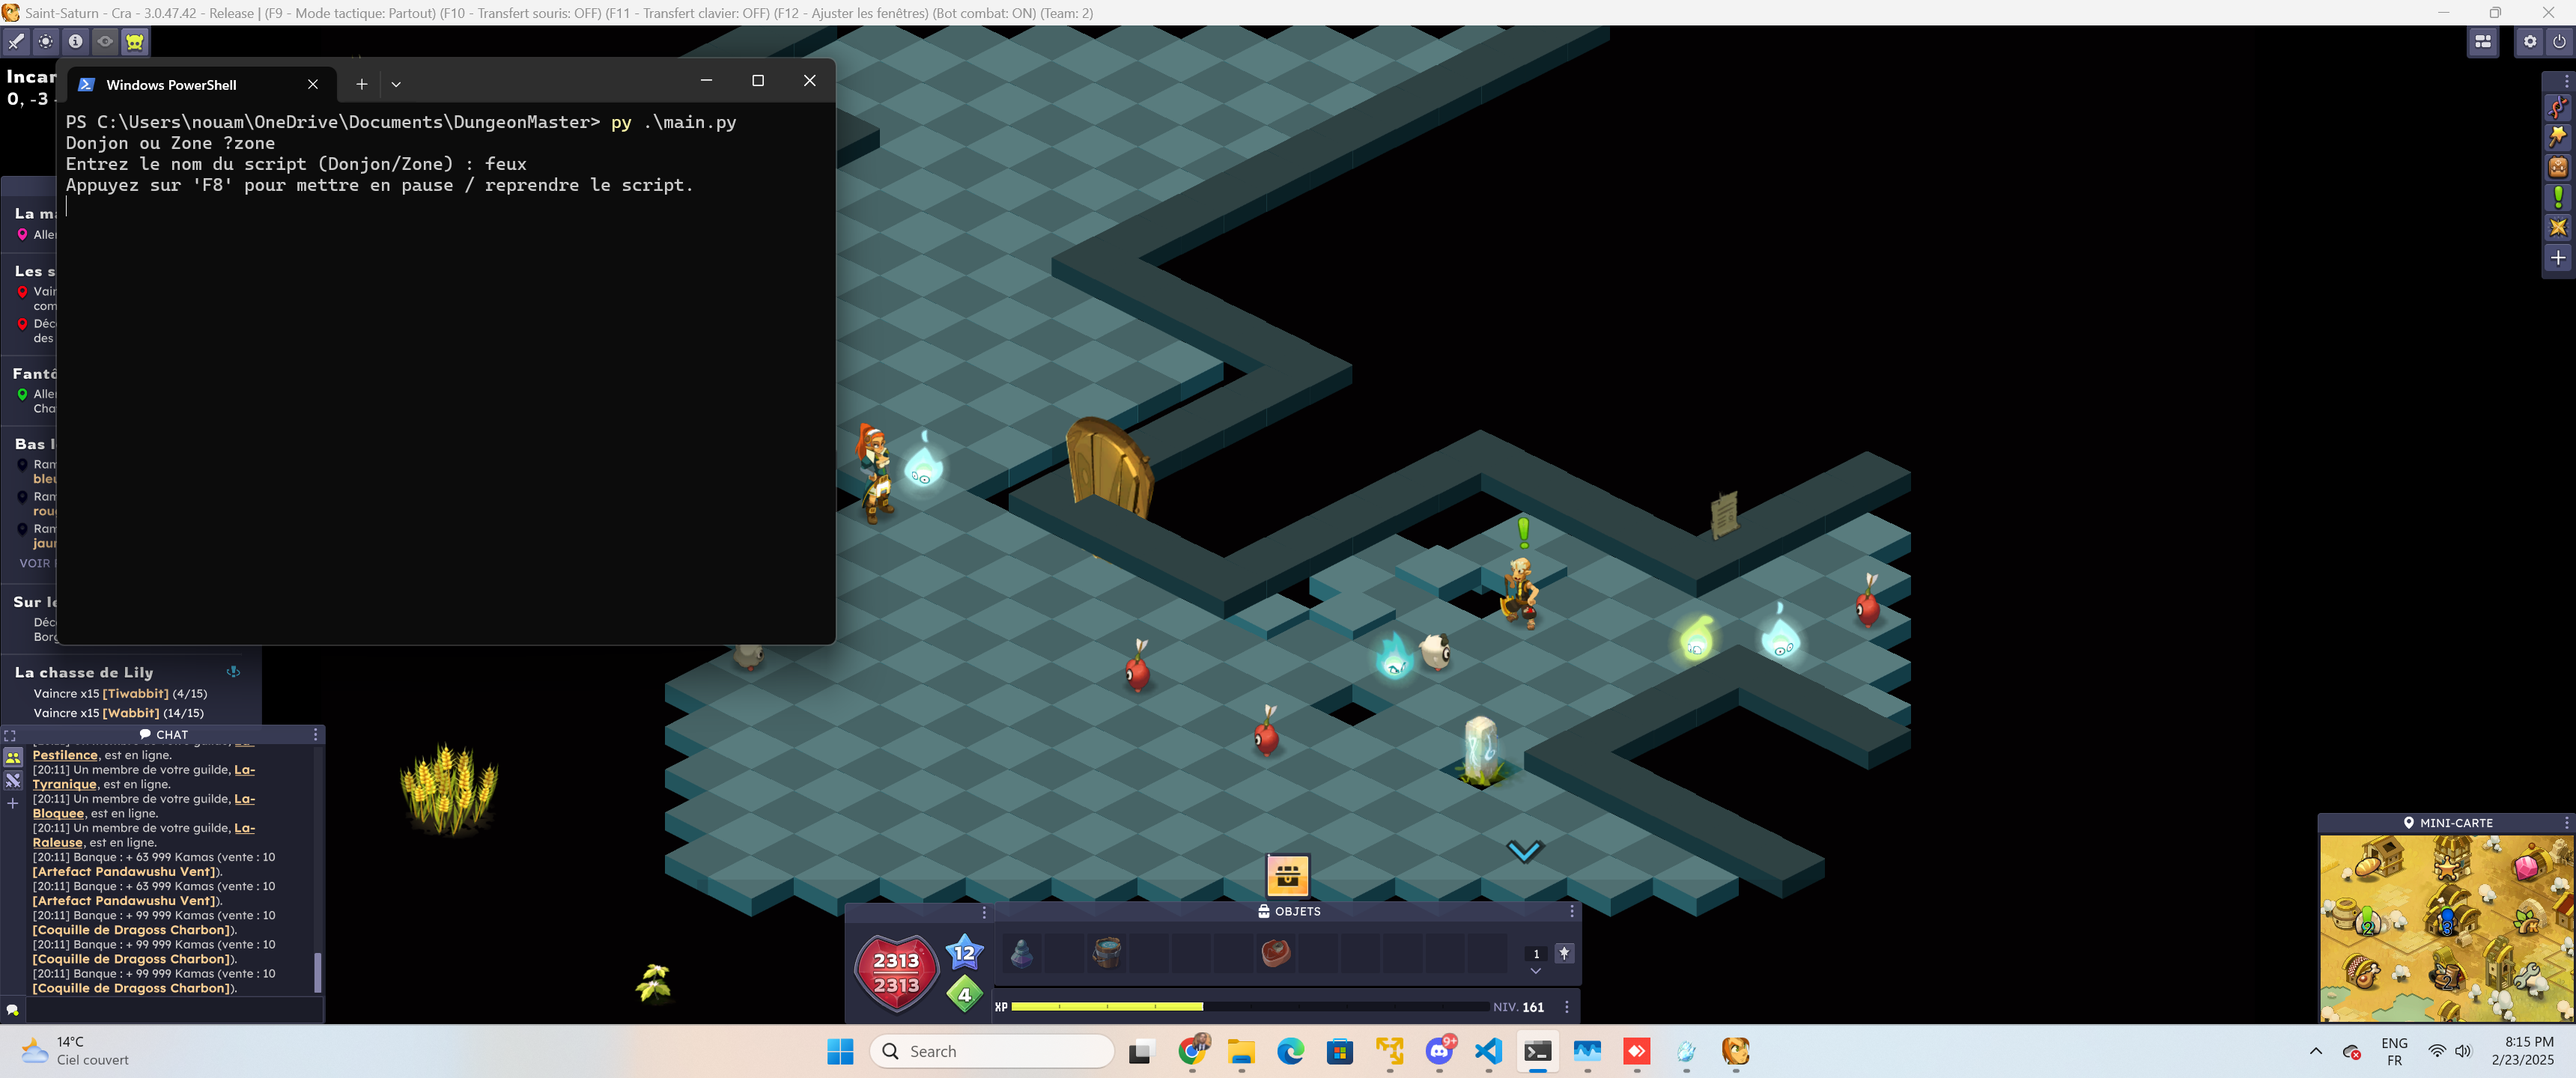
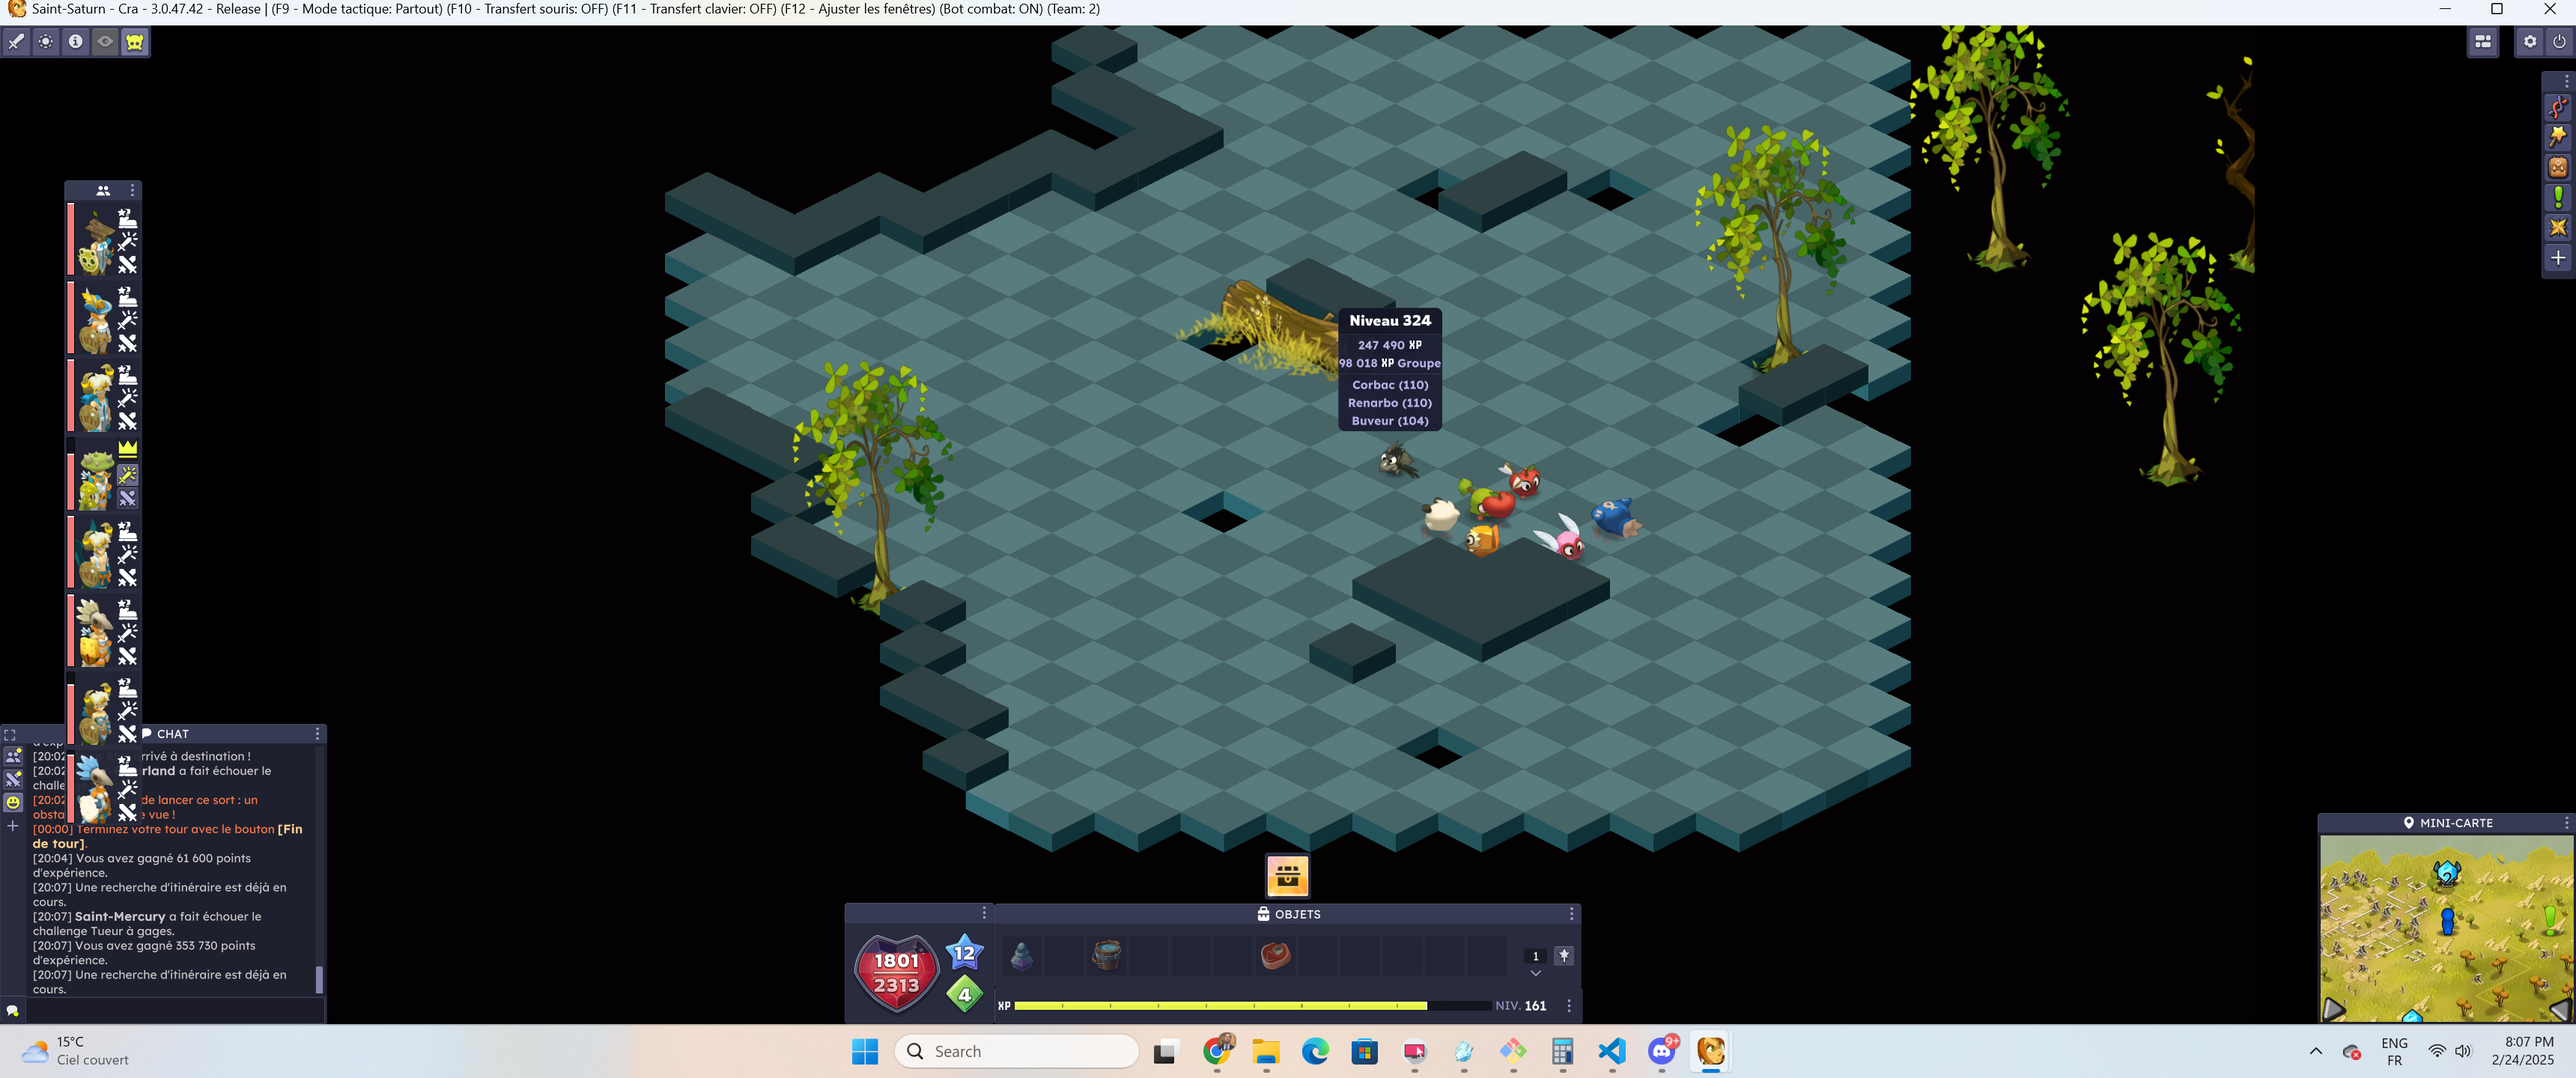
Amelioration Zones

diff --git a/detect_monster.py b/detect_monster.py
@@ -3,6 +3,9 @@ import numpy as np
 import pyautogui
 import os
 import time
+import json
+import pytesseract
+import detect_fight
 
 def find_and_click_monsters(folder_path):
     # Liste tous les fichiers dans le dossier contenant les images des monstres
@@ -43,3 +46,67 @@ def find_and_click_monsters(folder_path):
 monsters_folder_path = 'images/kwakwa/boss'
 find_and_click_monsters(monsters_folder_path)
 """
+
+def click_box(monsterNames):
+    with open("config/config.json", "r", encoding="utf-8") as file:
+        config = json.load(file)
+
+    # Définir le chemin de Tesseract OCR (si nécessaire)
+    pytesseract.pytesseract.tesseract_cmd = r"C:\Program Files\Tesseract-OCR\tesseract.exe"
+
+    showMonster = config["showMonster"]
+
+    # Afficher la boîte des monstres
+    pyautogui.mouseDown(showMonster)
+    time.sleep(0.5)  # Attendre l'affichage de la boîte
+    screenshot = pyautogui.screenshot()
+    screenshot.save('show_monster.png')
+    screen = cv2.imread('show_monster.png')
+    pyautogui.mouseUp(showMonster)
+
+    # Convertir en niveaux de gris et améliorer la reconnaissance
+    gray = cv2.cvtColor(screen, cv2.COLOR_BGR2GRAY)
+    gray = cv2.threshold(gray, 100, 255, cv2.THRESH_BINARY + cv2.THRESH_OTSU)[1]
+
+    # Extraire le texte et leurs positions
+    data = pytesseract.image_to_data(gray, lang="fra", output_type=pytesseract.Output.DICT)
+
+    box_top, box_bottom = None, None
+    vertical = None
+
+    # Détection de la boîte complète
+    for i in range(len(data["text"])):
+        text = data["text"][i].strip().lower()
+        x, y, w, h = data["left"][i], data["top"][i], data["width"][i], data["height"][i]
+
+        # Détecter le haut de la boîte avec "Niveau"
+        if "niveau" in text:
+            print("Niveau : " + str(x) + ", " + str(y) + ", " + str(w), ", " + str(h))
+            
+            if box_top is None or y < box_top:
+                box_top = y
+
+        # Détecter le bas de la boîte avec les noms des monstres
+        for monsterName in monsterNames:
+            if monsterName.lower() in text:
+                print("monster : " + str(monsterName) + " / " + str(x) + ", " + str(y) + ", " + str(w), ", " + str(h))
+                
+                if box_bottom is None or (y + h) > box_bottom:
+                    vertical = x + w
+                    box_bottom = y + h  # Bas du dernier monstre détecté
+
+    # Si la boîte est bien détectée, cliquer en bas
+    if box_top is not None and box_bottom is not None:
+        print("click : " + str(vertical) + ", " + str(box_bottom + 500))
+        click_x = vertical + 10  # Utiliser la position X du bouton
+        click_y = box_bottom + 50  # Ajouter un petit décalage pour cliquer sous la boîte
+
+        pyautogui.mouseDown(click_x, click_y)
+        time.sleep(0.5)
+        pyautogui.mouseUp(click_x, click_y)
+        print(f"Clicking at {click_x}, {click_y} (bottom of monster box)")
+        while detect_fight.is_combat_ready("images/spellbar.png") is True:
+            print("En combat... Script en pause !")
+            time.sleep(1)
+    else:
+        print("Boîte des monstres non détectée !")

diff --git a/uio.py b/uio.py
@@ -1,0 +1,69 @@
+import time
+import json
+import pyautogui
+import cv2
+import pytesseract
+
+# Charger les configurations
+with open("config/config.json", "r", encoding="utf-8") as file:
+    config = json.load(file)
+
+with open("config/zone/topaze.json", "r", encoding="utf-8") as file:
+    zone = json.load(file)
+
+pytesseract.pytesseract.tesseract_cmd = r"C:\Program Files\Tesseract-OCR\tesseract.exe"
+
+showMonster = config["showMonster"]
+monsterNames = zone["monsterNames"]
+
+# Afficher la boîte des monstres
+pyautogui.mouseDown(showMonster)
+time.sleep(0.5)  # Attendre l'affichage de la boîte
+screenshot = pyautogui.screenshot()
+screenshot.save('show_monster.png')
+screen = cv2.imread('show_monster.png')
+pyautogui.mouseUp(showMonster)
+
+# Convertir en niveaux de gris et améliorer la reconnaissance
+gray = cv2.cvtColor(screen, cv2.COLOR_BGR2GRAY)
+gray = cv2.threshold(gray, 100, 255, cv2.THRESH_BINARY + cv2.THRESH_OTSU)[1]
+
+# Extraire le texte et leurs positions
+data = pytesseract.image_to_data(gray, lang="fra", output_type=pytesseract.Output.DICT)
+
+box_top, box_bottom = None, None
+vertical = None
+
+# Détection de la boîte complète
+for i in range(len(data["text"])):
+    text = data["text"][i].strip().lower()
+    x, y, w, h = data["left"][i], data["top"][i], data["width"][i], data["height"][i]
+
+    # Détecter le haut de la boîte avec "Niveau"
+    if "niveau" in text:
+        print("Niveau : " + str(x) + ", " + str(y) + ", " + str(w), ", " + str(h))
+        
+        if box_top is None or y < box_top:
+            box_top = y
+
+    # Détecter le bas de la boîte avec les noms des monstres
+    for monsterName in monsterNames:
+        if monsterName.lower() in text:
+            print("monster : " + str(monsterName) + " / " + str(x) + ", " + str(y) + ", " + str(w), ", " + str(h))
+            
+            if box_bottom is None or (y + h) > box_bottom:
+                vertical = x + w
+                box_bottom = y + h  # Bas du dernier monstre détecté
+
+# Si la boîte est bien détectée, cliquer en bas
+if box_top is not None and box_bottom is not None:
+    print("click : " + str(vertical) + ", " + str(box_bottom + 500))
+    click_x = vertical + 10  # Utiliser la position X du bouton
+    click_y = box_bottom + 50  # Ajouter un petit décalage pour cliquer sous la boîte
+
+    pyautogui.mouseDown(click_x, click_y)
+    time.sleep(0.5)
+    pyautogui.mouseUp(click_x, click_y)
+    print(f"Clicking at {click_x}, {click_y} (bottom of monster box)")
+else:
+    print("Boîte des monstres non détectée !")

diff --git a/clickz.py b/clickz.py
@@ -1,0 +1,56 @@
+import keyboard
+import time
+import json
+import pyautogui
+import cv2
+import pytesseract
+
+with open("config/config.json", "r", encoding="utf-8") as file:
+    config = json.load(file)
+
+with open("config/zone/topaze.json", "r", encoding="utf-8") as file:
+    zone = json.load(file)
+
+# Définir le chemin de Tesseract OCR (si nécessaire)
+pytesseract.pytesseract.tesseract_cmd = r"C:\Program Files\Tesseract-OCR\tesseract.exe"
+
+showMonster = config["showMonster"]
+monsterNames = zone["monsterNames"]
+pyautogui.mouseDown(showMonster)
+# Prendre une capture d'écran de la région du jeu
+screenshot = pyautogui.screenshot()
+screenshot.save('show_monster.png')
+screen = cv2.imread('show_monster.png')
+time.sleep(0.5)
+pyautogui.mouseUp(showMonster)
+
+# Convertir en niveaux de gris
+gray = cv2.cvtColor(screen, cv2.COLOR_BGR2GRAY)
+
+# Appliquer un seuillage pour améliorer la reconnaissance
+gray = cv2.threshold(gray, 100, 255, cv2.THRESH_BINARY + cv2.THRESH_OTSU)[1]
+
+# Utiliser Tesseract OCR pour extraire le texte
+text = pytesseract.image_to_string(gray, lang="fra")  # "fra" pour français
+
+
+for monsterName in monsterNames:
+    print("here is text: " + text)
+    if monsterName.lower() in text.lower():
+        print("Trouvé.. ! " + monsterName)
+        # Trouver la position du texte (bounding boxes)
+        data = pytesseract.image_to_data(gray, lang="fra", output_type=pytesseract.Output.DICT)
+        for i in range(len(data["text"])):
+            if monsterName.lower() in data["text"][i].lower():
+                x, y, w, h = data["left"][i], data["top"][i], data["width"][i], data["height"][i]
+                print(data["text"][i], x, y, w, h)
+                for j in range(50):
+                    print("text " + str(j) + ": " + data["text"][i + j])
+                # Déplacer la souris sous le texte (quelques pixels en bas)
+                pyautogui.moveTo(x + w // 2, y * 2)  
+                pyautogui.mouseDown(x + w // 2, y * 2)
+                pyautogui.mouseUp(x + w // 2, y * 2)
+                print("clicking in " + str(x + w // 2) + "," + str(y * 2))
+                break
+
+        time.sleep(0.5)

diff --git a/start.py b/start.py
@@ -49,15 +49,15 @@ def startZone(zoneName):
     with open("config/zone/" + zoneName + ".json", "r", encoding="utf-8") as file:
         config = json.load(file)
         
-    monsters = config["monsters"]
+    monsters = config["monsterNames"]
     iteration = 0
     current_map = 0
     start_map = config["start_map"]
     print("Deplacement vers Map de départ: " + str(start_map))
     travel.travel(start_map)
     while True:
-        detect_monster.find_and_click_monsters(monsters)
-        time.sleep(0.75)
+        detect_monster.click_box(monsters)
+        time.sleep(0.5)
         iteration = iteration + 1
         print("iteration " + str(iteration))
         if iteration > 3:
